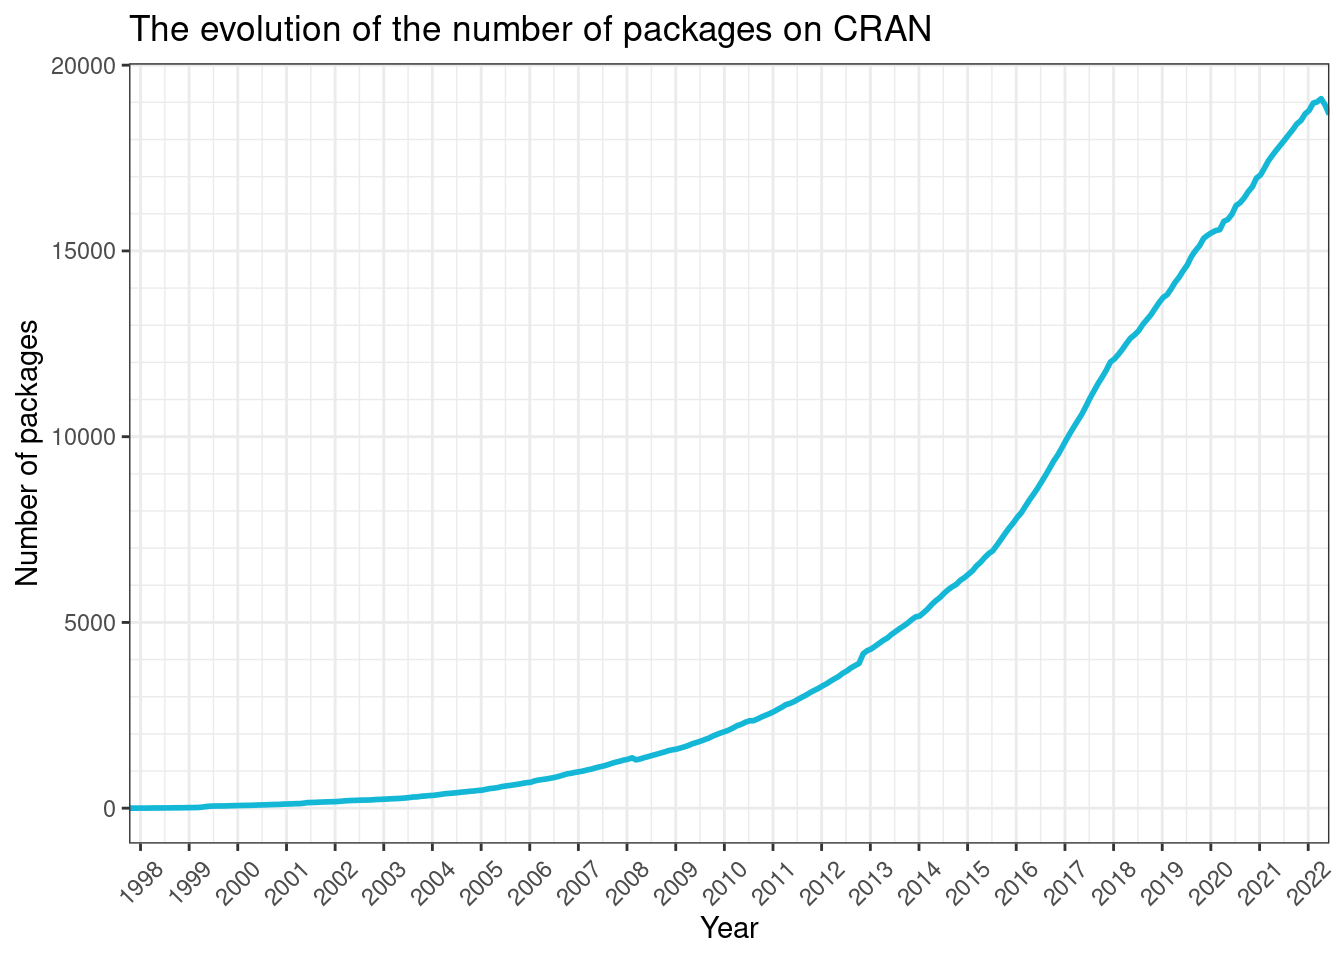
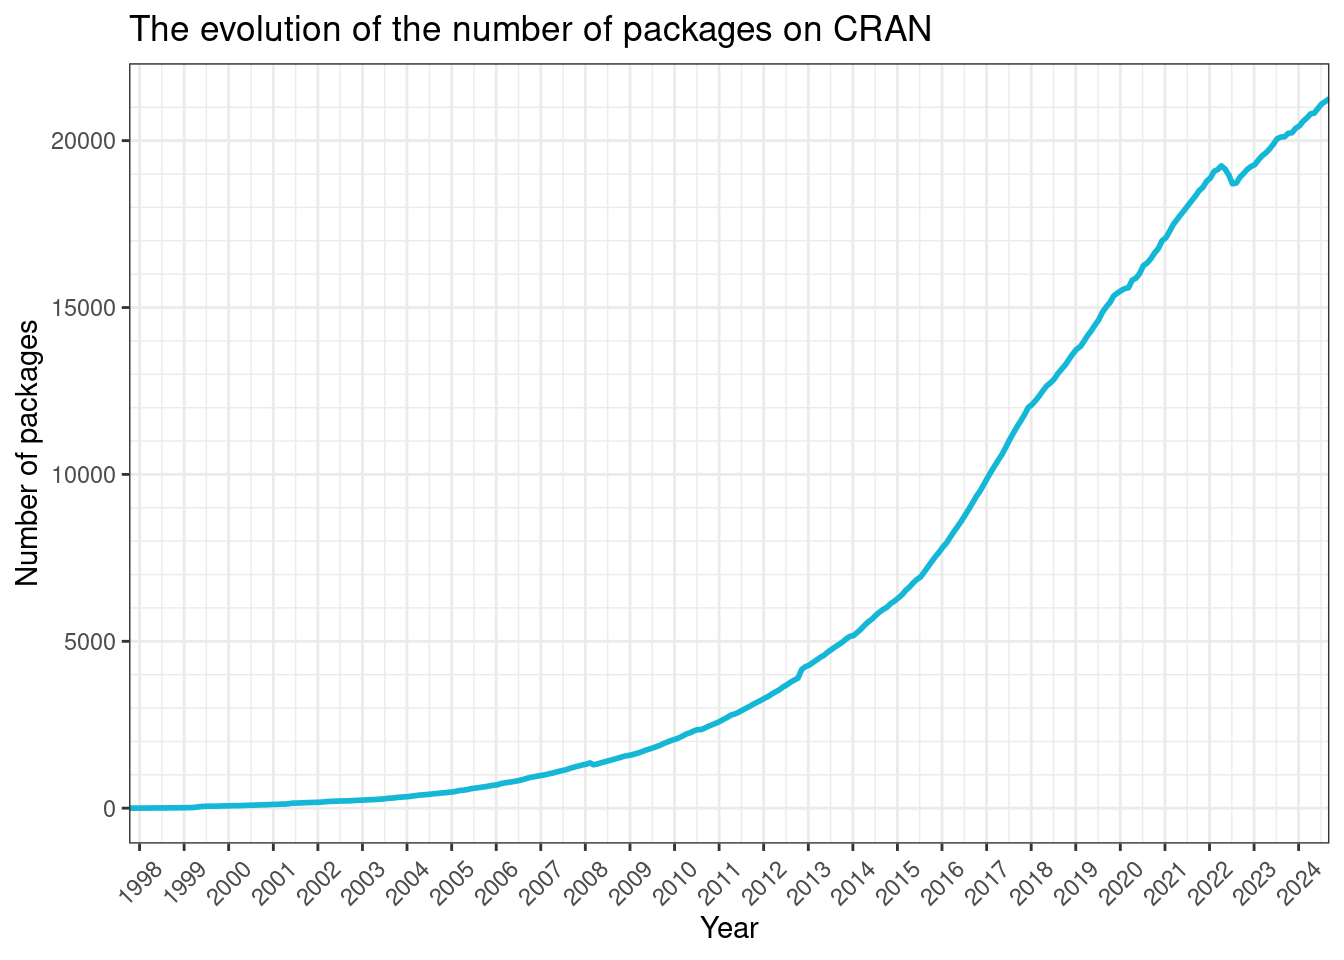
fix: Replace MRAN with ppm
- Adjust documentation
- Change function names to match ppm

diff --git a/README.md b/README.md
@@ -11,7 +11,7 @@ experimental](https://img.shields.io/badge/lifecycle-experimental-orange.svg)](h
 <!-- badges: end -->
 
 The goal of `{cranology}` is to provide tools to scrape data from CRAN
-and MRAN websites as well as useful datasets to explore the evolution of
+and PPM websites as well as useful datasets to explore the evolution of
 the number of packages on CRAN.
 
 ``` r
@@ -40,28 +40,29 @@ All packages ever available on CRAN.
 
 ``` r
 cran_packages_history
-#> # A tibble: 37,823 × 10
+#> # A tibble: 44,613 × 10
 #>    file_name    date                time  size  package_name last_archived      
 #>    <chr>        <dttm>              <chr> <chr> <chr>        <dttm>             
 #>  1 A3/          2015-08-16 21:05:00 21:05 -     A3           2015-08-16 21:05:00
 #>  2 aaMI/        2010-07-30 12:17:00 12:17 -     aaMI         2010-07-30 12:17:00
 #>  3 aaSEA/       2022-06-21 05:12:00 05:12 -     aaSEA        2022-06-21 05:12:00
-#>  4 aba/         2022-03-27 06:29:00 06:29 -     aba          2022-03-27 06:29:00
-#>  5 abbyyR/      2019-06-25 04:30:00 04:30 -     abbyyR       2019-06-25 04:30:00
-#>  6 abc/         2022-05-19 07:20:00 07:20 -     abc          2022-05-19 07:20:00
-#>  7 ABCanalysis/ 2017-03-13 13:31:00 13:31 -     ABCanalysis  2017-03-13 13:31:00
-#>  8 abcdeFBA/    2022-03-07 06:20:00 06:20 -     abcdeFBA     2022-03-07 06:20:00
-#>  9 ABCExtremes/ 2015-06-19 11:26:00 11:26 -     ABCExtremes  2015-06-19 11:26:00
-#> 10 abclass/     2022-05-28 18:10:00 18:10 -     abclass      2022-05-28 18:10:00
-#> # … with 37,813 more rows, and 4 more variables: archive <lgl>,
-#> #   first_date <dttm>, n_versions <int>, last_modified <dttm>
+#>  4 AATtools/    2024-08-16 09:10:00 09:10 -     AATtools     2024-08-16 09:10:00
+#>  5 aba/         2022-03-27 06:29:00 06:29 -     aba          2022-03-27 06:29:00
+#>  6 abbyyR/      2023-11-03 04:42:00 04:42 -     abbyyR       2023-11-03 04:42:00
+#>  7 abc.data/    2024-03-24 10:15:00 10:15 -     abc.data     2024-03-24 10:15:00
+#>  8 abc/         2022-05-19 07:20:00 07:20 -     abc          2022-05-19 07:20:00
+#>  9 abcADM/      2023-03-02 11:13:00 11:13 -     abcADM       2023-03-02 11:13:00
+#> 10 ABCanalysis/ 2017-03-13 13:31:00 13:31 -     ABCanalysis  2017-03-13 13:31:00
+#> # ℹ 44,603 more rows
+#> # ℹ 4 more variables: archive <lgl>, first_date <dttm>, n_versions <int>,
+#> #   last_modified <dttm>
 ```
 
 The evolution of the number of packages on CRAN since its beginning.
 
 ``` r
 cran_monthly_package_number
-#> # A tibble: 297 × 2
+#> # A tibble: 324 × 2
 #>    date       number_packages
 #>    <date>               <dbl>
 #>  1 1997-10-08               1
@@ -74,7 +75,7 @@ cran_monthly_package_number
 #>  8 1998-05-08               6
 #>  9 1998-06-08               6
 #> 10 1998-07-08               7
-#> # … with 287 more rows
+#> # ℹ 314 more rows
 ```
 
 ### Scraping tools
@@ -91,9 +92,9 @@ future::plan(future::multisession)
 scrape_cran_history()
 ```
 
-#### MRAN
+#### PPM
 
-`{cranology}` also includes the `get_package_number_mran()` function to
+`{cranology}` also includes the `get_package_number_ppm()` function to
 more quickly get the number of packages that were available on CRAN at
 any given date.
 
@@ -103,25 +104,25 @@ dates <- seq(
   by = "1 year", 
   length.out = 4
 )
-get_package_number_mran(dates)
-#> Scraping MRAN...
+get_package_number_ppm(dates)
+#> Scraping ppm...
 #> Scraping number packages on: 2018-04-10
 #> Scraping number packages on: 2019-04-10
 #> Scraping number packages on: 2020-04-10
 #> Scraping number packages on: 2021-04-10
 #>         date number_packages
-#> 1 2018-04-10           12418
-#> 2 2019-04-10           14042
-#> 3 2020-04-10           15507
-#> 4 2021-04-10           17398
+#> 1 2018-04-10           12415
+#> 2 2019-04-10           14025
+#> 3 2020-04-10           15548
+#> 4 2021-04-10           17388
 ```
 
 Be careful though as this will only work for dates posterior to
-`2014-09-17` the day when MRAN was up online for the first time.
+`2014-09-17` the day when PPM was up online for the first time.
 
 ``` r
-get_package_number_mran("2013-08-28")
-#> Error: Some dates are anterior to MRAN launch:
+get_package_number_ppm("2013-08-28")
+#> Error: Some dates are anterior to ppm launch:
 #> 1: 2013-08-28
 ```
 
@@ -129,19 +130,19 @@ For earlier dates use `cran_monthly_package_number`. Here is a naïve
 example:
 
 ``` r
-date_before_mran <- as.Date("2013-08-28")
+date_before_ppm <- as.Date("2013-08-28")
 
 cran_monthly_package_number[
   min(
     which(
-      cran_monthly_package_number$date >= date_before_mran
+      cran_monthly_package_number$date >= date_before_ppm
     )
   ), 
 ]
 #> # A tibble: 1 × 2
 #>   date       number_packages
 #>   <date>               <dbl>
-#> 1 2013-09-08            4906
+#> 1 2013-09-08            4904
 ```
 
 ## Acknowledgements
